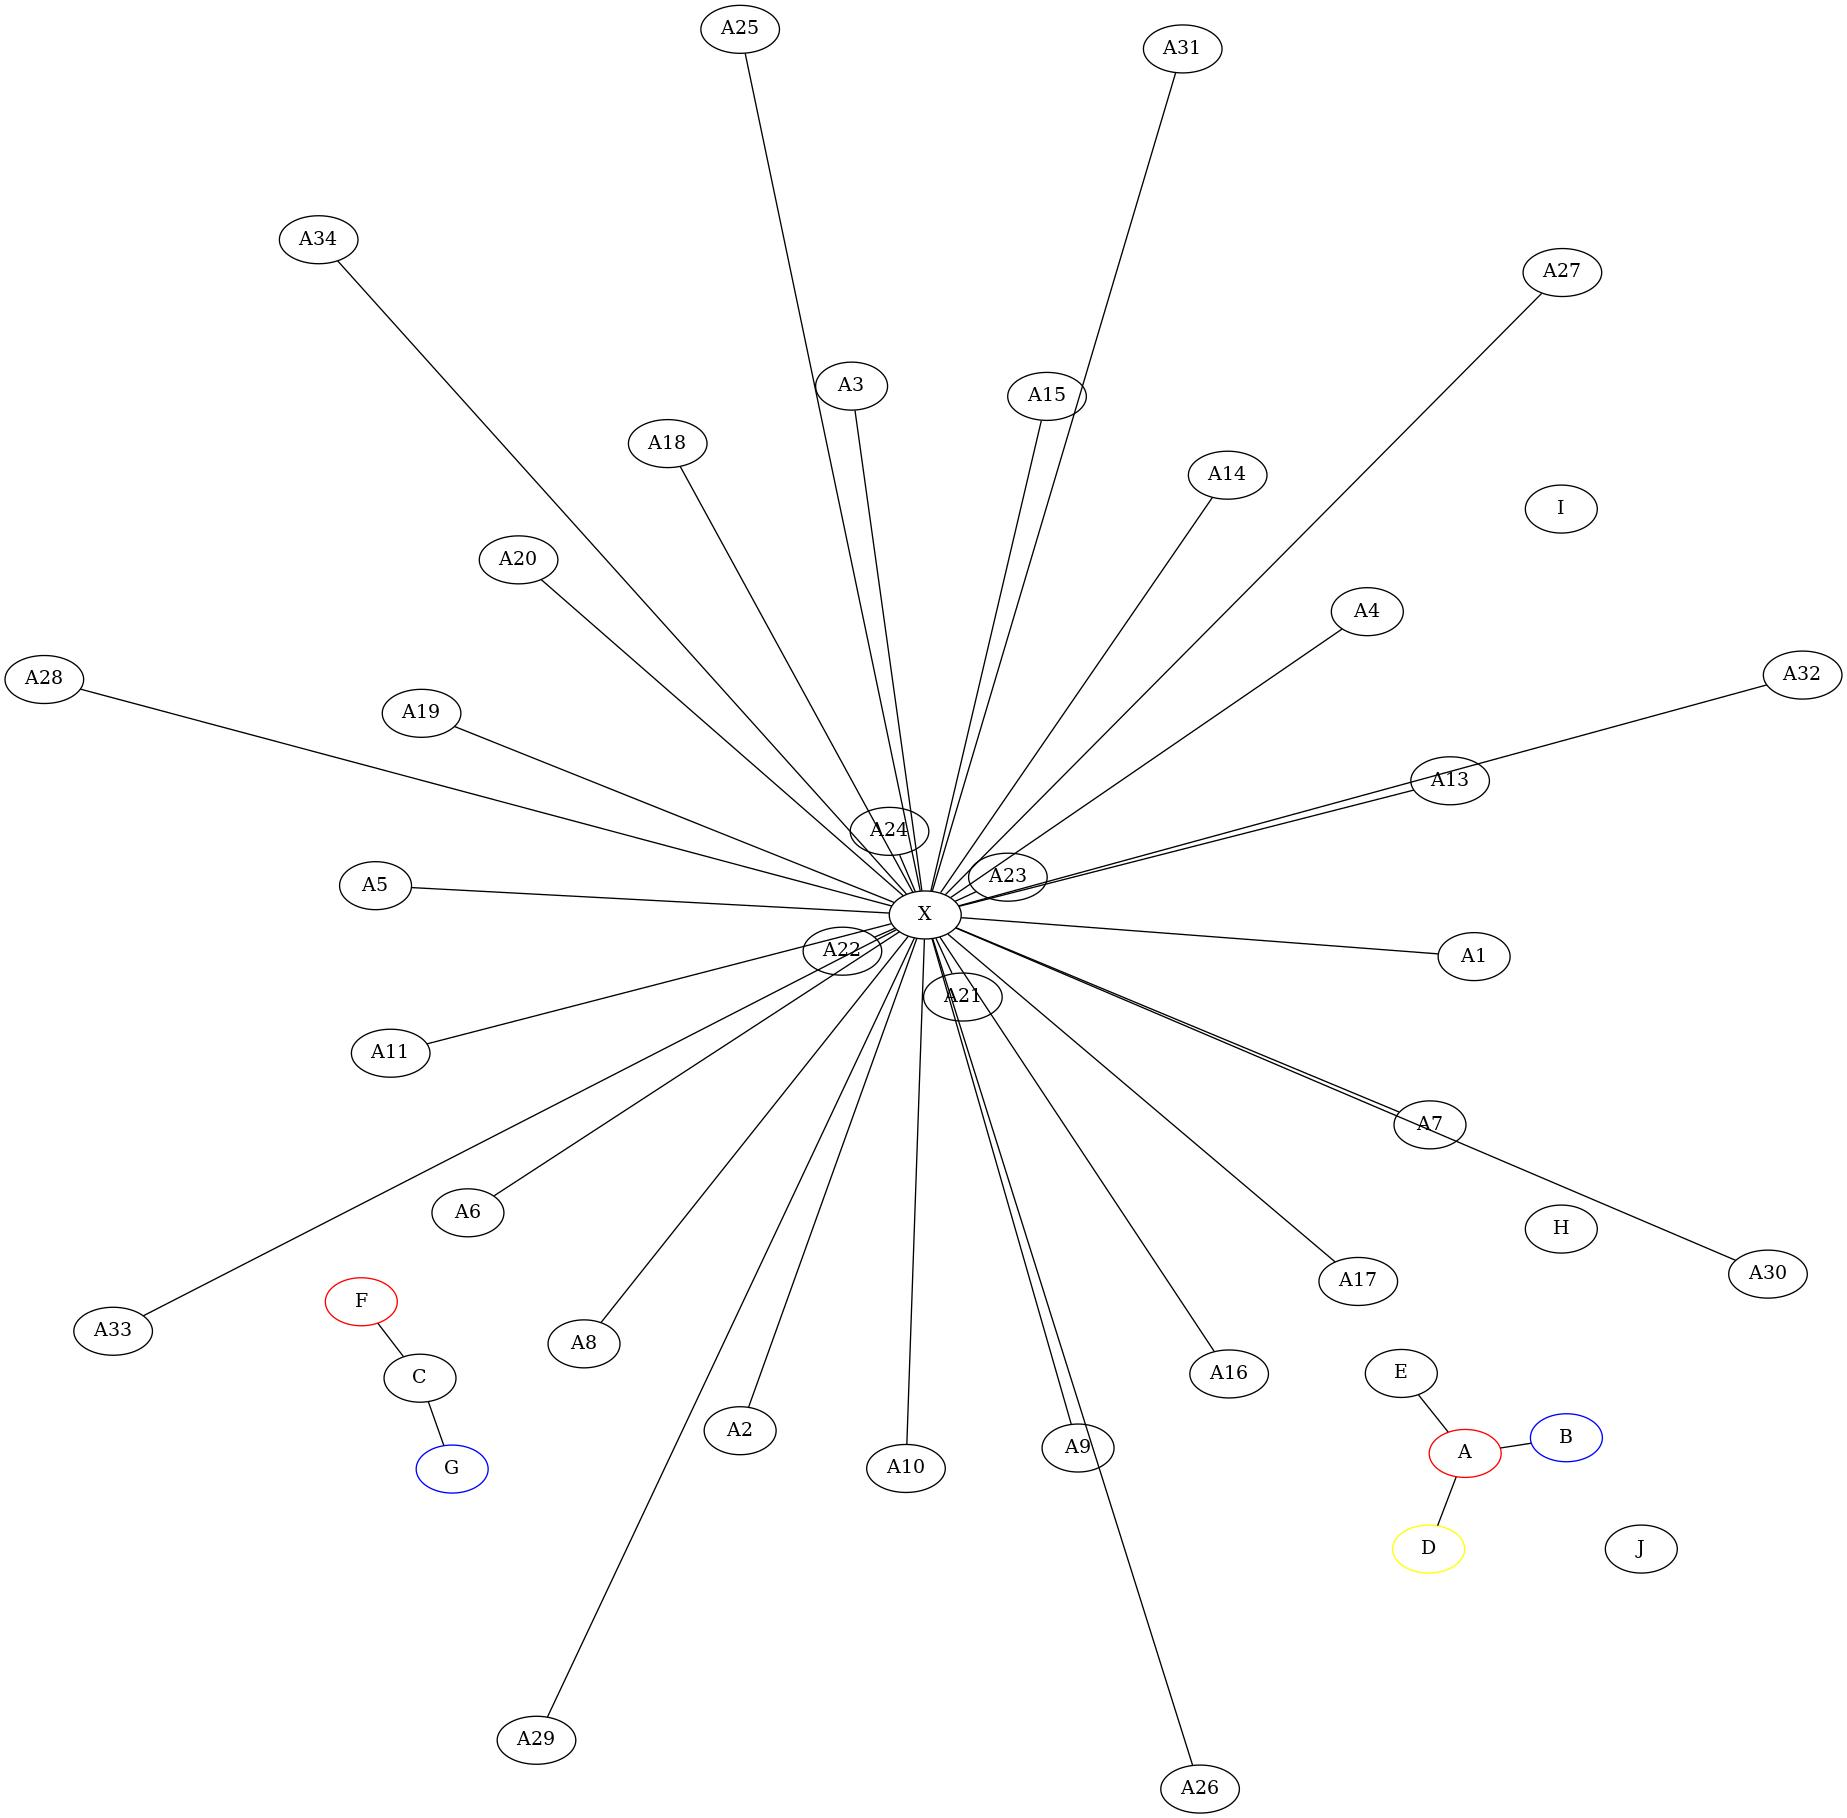
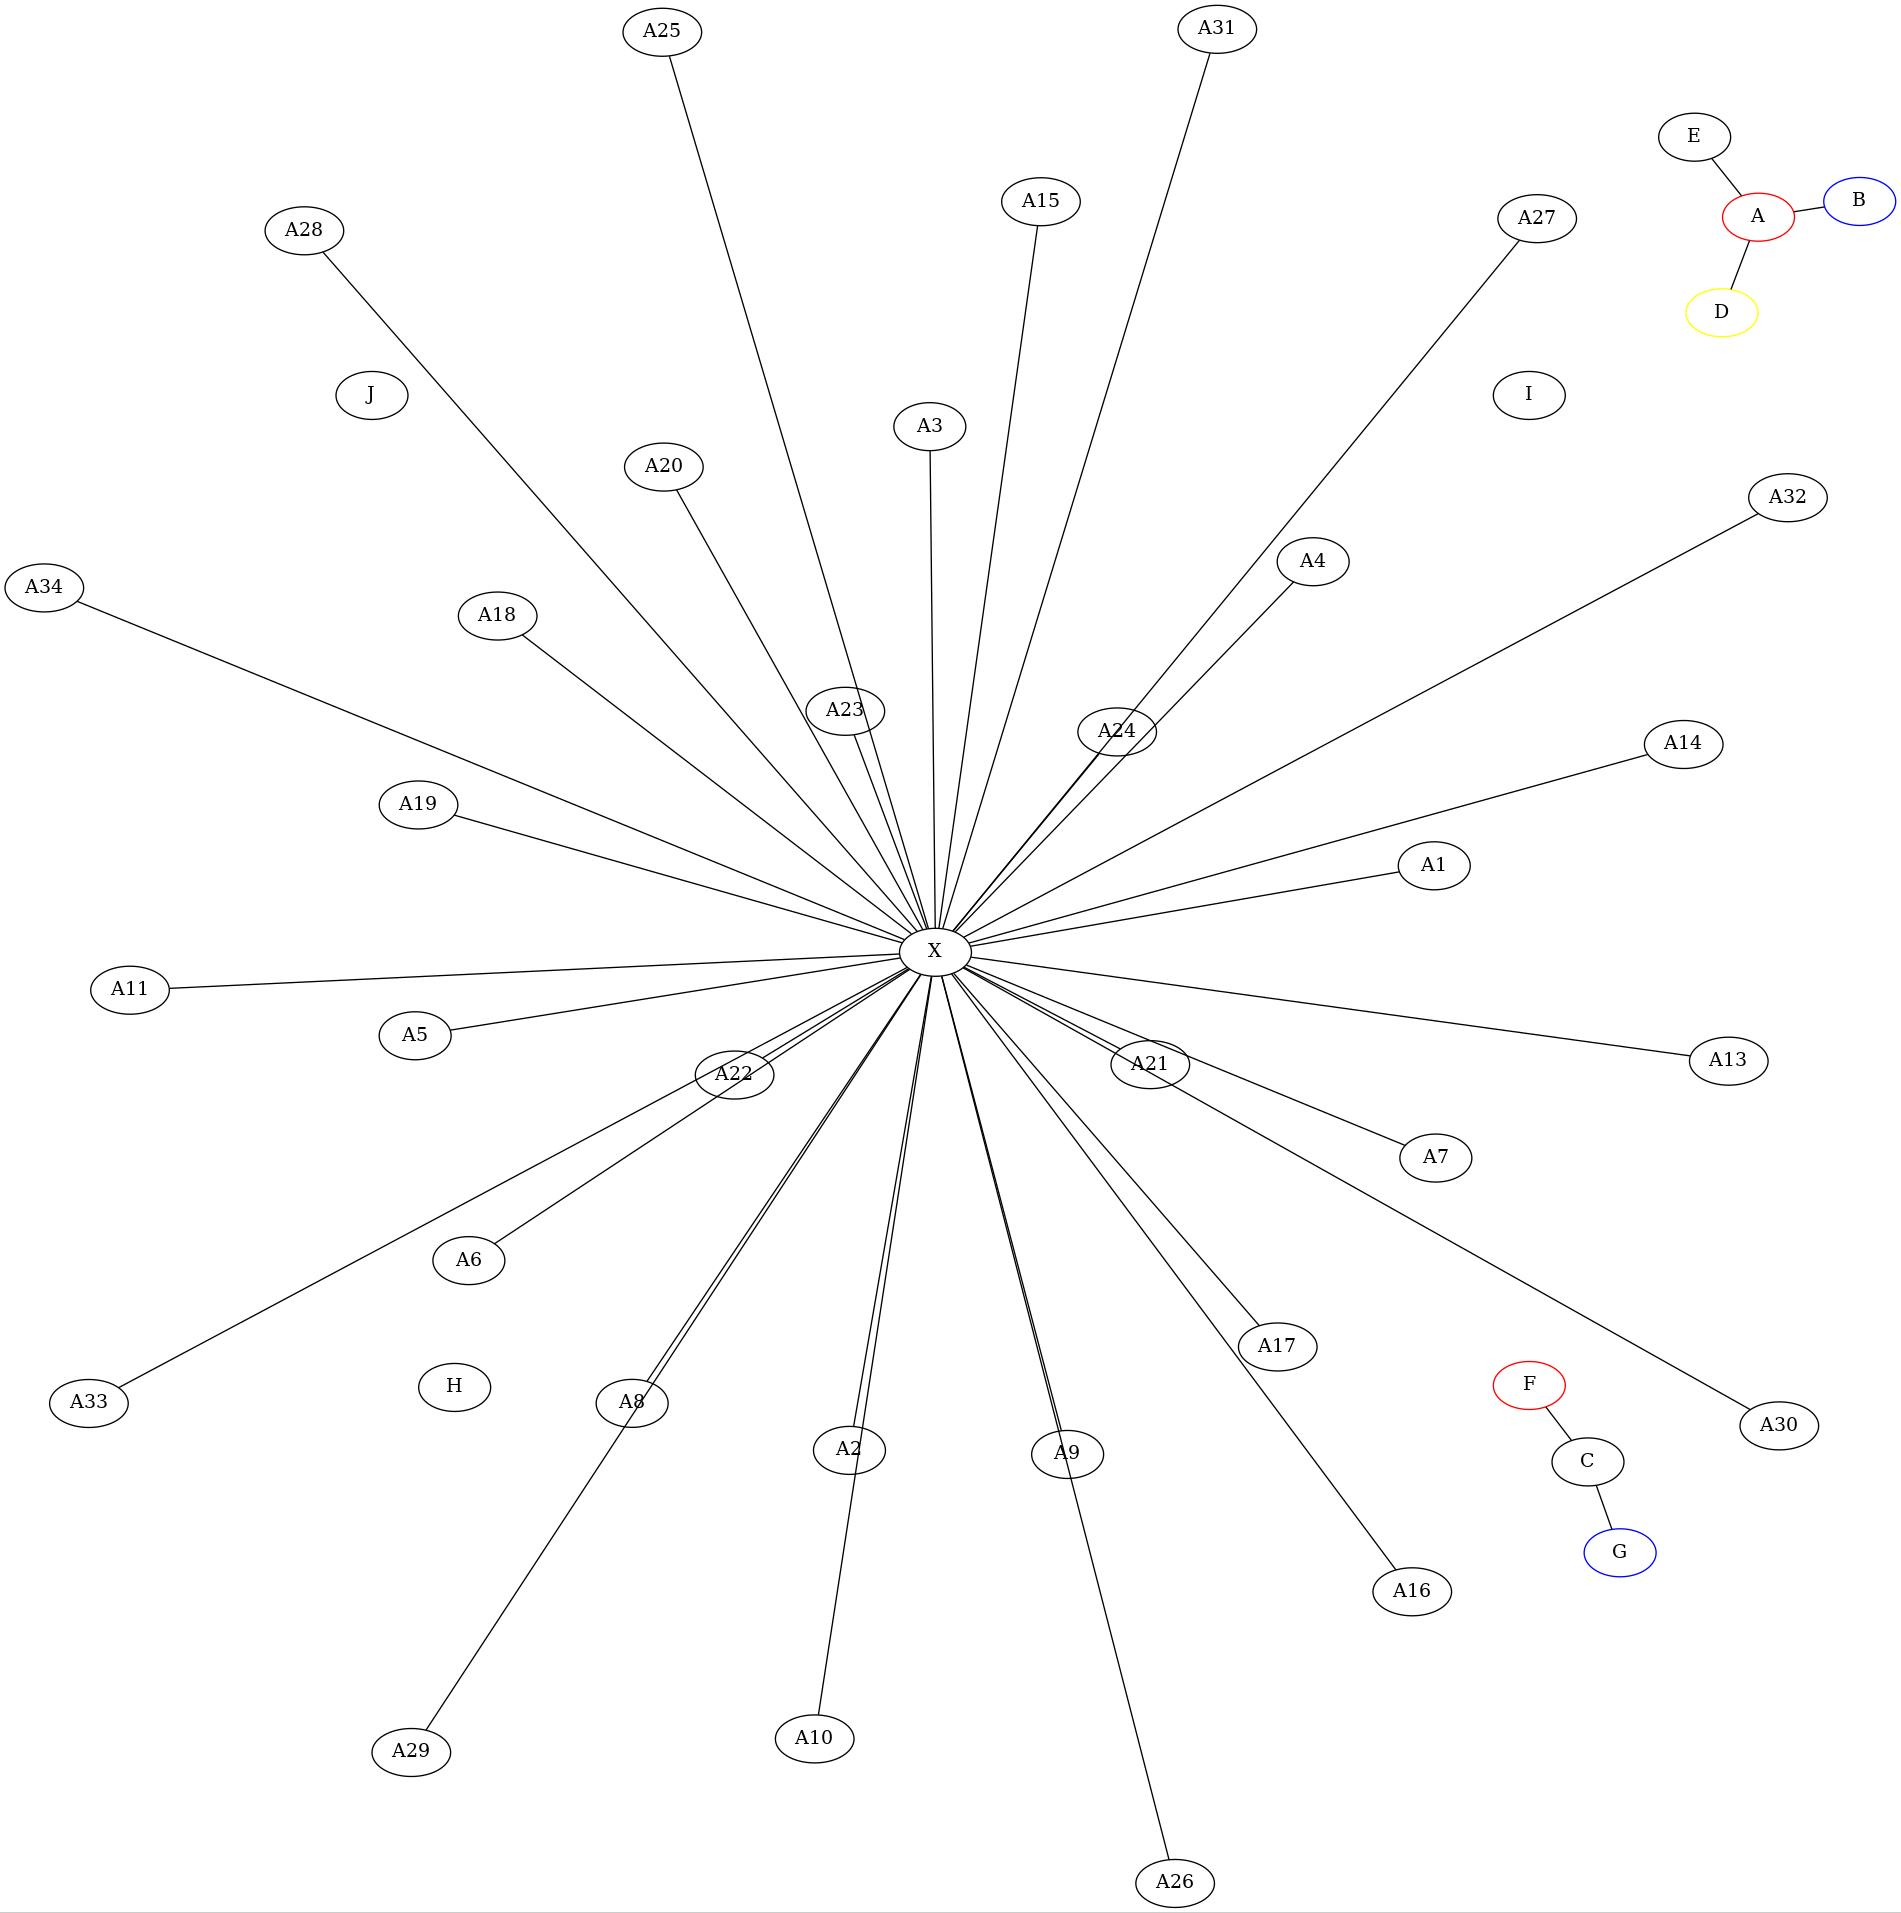
Auto commit at

diff --git a/PycharmProjects/pythonNewProject/pygraphviz/codes/code_05_dec_2023/pygraphviz_code_2.py b/PycharmProjects/pythonNewProject/pygraphviz/codes/code_05_dec_2023/pygraphviz_code_2.py
@@ -35,20 +35,20 @@ G.add_edge("X", "A6", len="5")
 G.add_edge("X", "A7", len="5")
 G.add_edge("X", "A8", len="5")
 G.add_edge("X", "A9", len="5")
-G.add_edge("X", "A10", len="5")
-G.add_edge("X", "A11", len="5")
-G.add_edge("X", "A13", len="5")
-G.add_edge("X", "A14", len="5")
-G.add_edge("X", "A15", len="5")
-G.add_edge("X", "A16", len="5")
+G.add_edge("X", "A10", len="6")
+G.add_edge("X", "A11", len="6")
+G.add_edge("X", "A13", len="6")
+G.add_edge("X", "A14", len="6")
+G.add_edge("X", "A15", len="6")
+G.add_edge("X", "A16", len="6")
 G.add_edge("X", "A17", len="5")
 G.add_edge("X", "A18", len="5")
 G.add_edge("X", "A19", len="5")
 G.add_edge("X", "A20", len="5")
-G.add_edge("X", "A21")
-G.add_edge("X", "A22")
-G.add_edge("X", "A23")
-G.add_edge("X", "A24")
+G.add_edge("X", "A21", len="4")
+G.add_edge("X", "A22", len="4")
+G.add_edge("X", "A23", len="4")
+G.add_edge("X", "A24", len="4")
 G.add_edge("X", "A25", len="7")
 G.add_edge("X", "A26", len="7")
 G.add_edge("X", "A27", len="7")
